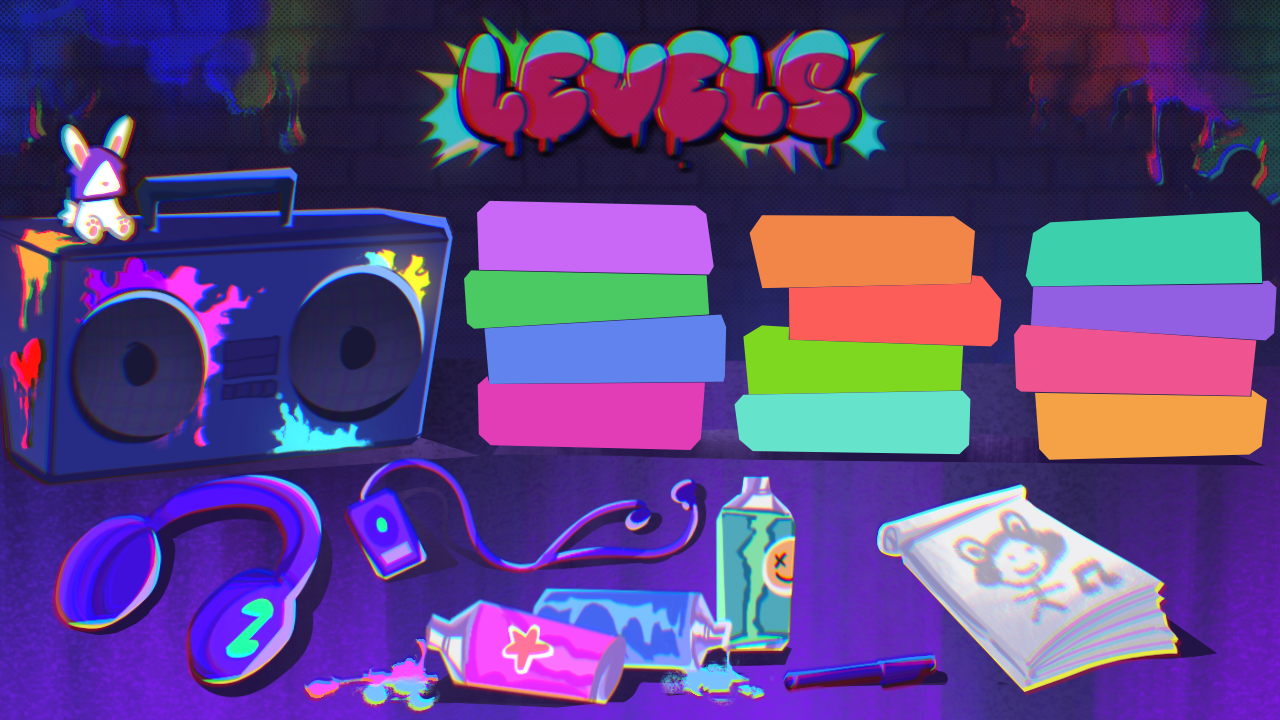
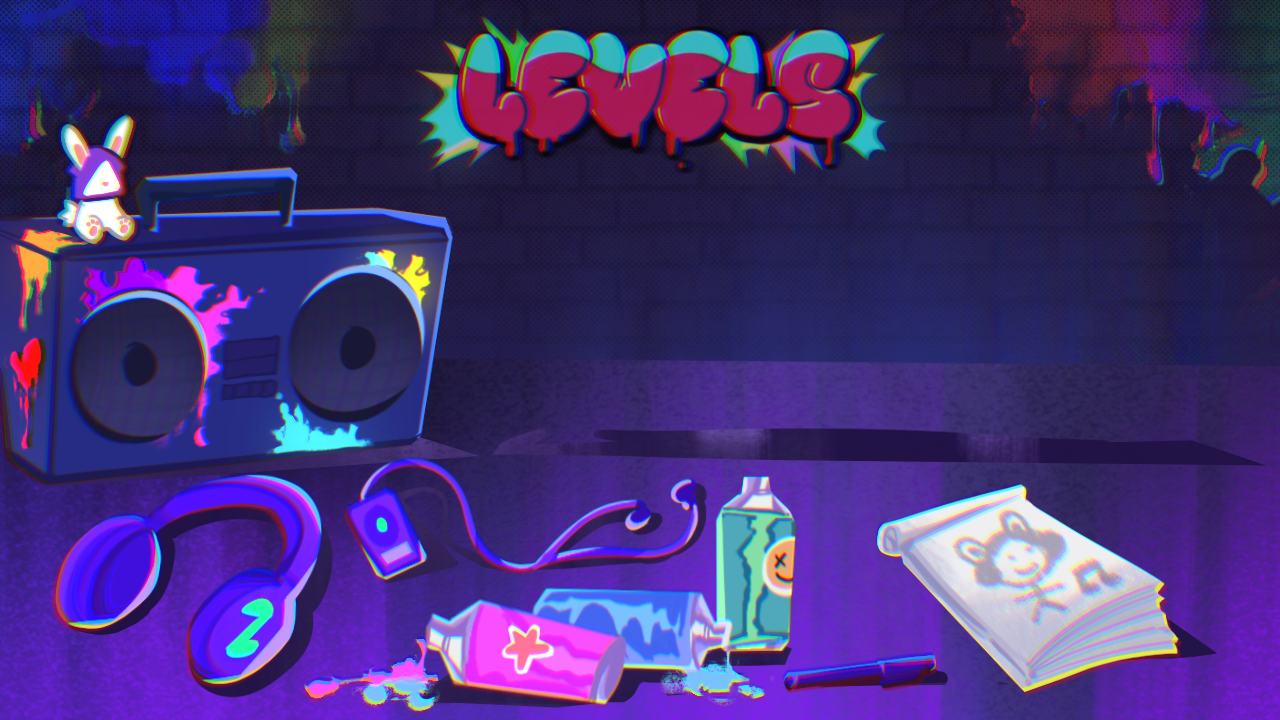
Added background w/out buttons and uploaded updated hover buttons

Changed region(s): [[0.3438, 0.275, 1.0, 0.6417]]

diff --git a/core/src/edu/cornell/gdiac/rabbeat/LevelSelectorScreen.java b/core/src/edu/cornell/gdiac/rabbeat/LevelSelectorScreen.java
@@ -133,10 +133,10 @@ public class LevelSelectorScreen extends ScreenAdapter {
                     break;
                 case(3):
 //                    hoverButton.setPosition(420, background.getHeight()-hoverButton.getHeight()-227);
-                    levelButton.setPosition(483, background.getHeight()-levelButton.getHeight()-311);
+                    levelButton.setPosition(483, background.getHeight()-levelButton.getHeight()-311-3);
                     break;
                 case(4):
-                    levelButton.setPosition(475, background.getHeight()-levelButton.getHeight()-374);
+                    levelButton.setPosition(475, background.getHeight()-levelButton.getHeight()-374-10);
                     break;
                 case(5):
                     levelButton.setPosition(750, background.getHeight()-levelButton.getHeight()-214);
@@ -202,15 +202,15 @@ public class LevelSelectorScreen extends ScreenAdapter {
             }
 
 
-            levelButton.addListener(new ClickListener() {
-                @Override
-                public void clicked(InputEvent event, float x, float y) {
-                    if (finalI <= GameController.getInstance().getLevelsUnlocked()) {
-                        GameController.getInstance().setCurrentLevelInt(finalI);
-                        listener.exitScreen(LevelSelectorScreen.this, 0);
-                    }
-                }
-            });
+//            levelButton.addListener(new ClickListener() {
+//                @Override
+//                public void clicked(InputEvent event, float x, float y) {
+//                    if (finalI <= GameController.getInstance().getLevelsUnlocked()) {
+//                        GameController.getInstance().setCurrentLevelInt(finalI);
+//                        listener.exitScreen(LevelSelectorScreen.this, 0);
+//                    }
+//                }
+//            });
 
             stage.addActor(levelButton);
 
@@ -257,26 +257,43 @@ public class LevelSelectorScreen extends ScreenAdapter {
                         }
 
                     });
+
+                    hoverImage1.addListener(new ClickListener() {
+                        @Override
+                        public void clicked(InputEvent event, float x, float y) {
+                            if (finalI <= GameController.getInstance().getLevelsUnlocked()) {
+                                GameController.getInstance().setCurrentLevelInt(1);
+                                listener.exitScreen(LevelSelectorScreen.this, 0);
+                            }
+                        }
+                    });
+
                 } else if(i==2) {
                     hoverRegion = GameController.getInstance().objectController.getLevelButtonHoverTexture(2);
                     hoverImage2 = new Image(hoverRegion);
                     hoverImage2.setPosition(464-20, background.getHeight()-hoverImage1.getHeight()-270+30);
 
-
                     hoverImage2.addListener(new InputListener() {
                         @Override
                         public void exit(InputEvent event, float x, float y, int pointer, Actor toActor) {
-                            //if (!hitbox.contains(x+100, y)) {
-                            hover2 = false; // Update hover state
-                            //}
+                            hover2 = false;
                         }
 
+                    });
+
+                    hoverImage2.addListener(new ClickListener() {
+                        @Override
+                        public void clicked(InputEvent event, float x, float y) {
+                            if (finalI <= GameController.getInstance().getLevelsUnlocked()) {
+                                GameController.getInstance().setCurrentLevelInt(2);
+                                listener.exitScreen(LevelSelectorScreen.this, 0);
+                            }
+                        }
                     });
                 } else if(i == 3){
                     hoverRegion = GameController.getInstance().objectController.getLevelButtonHoverTexture(3);
                     hoverImage3 = new Image(hoverRegion);
                     hoverImage3.setPosition(485.5f-19, background.getHeight()-hoverImage3.getHeight()-315.5f+20);
-
 
                     hoverImage3.addListener(new InputListener() {
                         @Override
@@ -285,10 +302,20 @@ public class LevelSelectorScreen extends ScreenAdapter {
                         }
 
                     });
+
+                    hoverImage3.addListener(new ClickListener() {
+                        @Override
+                        public void clicked(InputEvent event, float x, float y) {
+                            if (finalI <= GameController.getInstance().getLevelsUnlocked()) {
+                                GameController.getInstance().setCurrentLevelInt(3);
+                                listener.exitScreen(LevelSelectorScreen.this, 0);
+                            }
+                        }
+                    });
                 } else if(i == 4){
                     hoverRegion = GameController.getInstance().objectController.getLevelButtonHoverTexture(4);
                     hoverImage4 = new Image(hoverRegion);
-                    hoverImage4.setPosition(478f-19, background.getHeight()-hoverImage4.getHeight()-378+20);
+                    hoverImage4.setPosition(478f-19, background.getHeight()-hoverImage4.getHeight()-378+10);
 
 
                     hoverImage4.addListener(new InputListener() {

diff --git a/core/src/edu/cornell/gdiac/rabbeat/GDXRoot.java b/core/src/edu/cornell/gdiac/rabbeat/GDXRoot.java
@@ -44,7 +44,7 @@ public class GDXRoot extends Game implements ScreenListener {
 	private GameController controller;
 
 	/** Variable that represents the level selector screen */
-	private edu.cornell.gdiac.rabbeat.LevelSelectorScreen levelSelectorScreen;
+	private LevelSelectorScreen levelSelectorScreen;
 
 	/** Variable that represents the main menu screen */
 	private MainMenuScreen mainMenuScreen;
